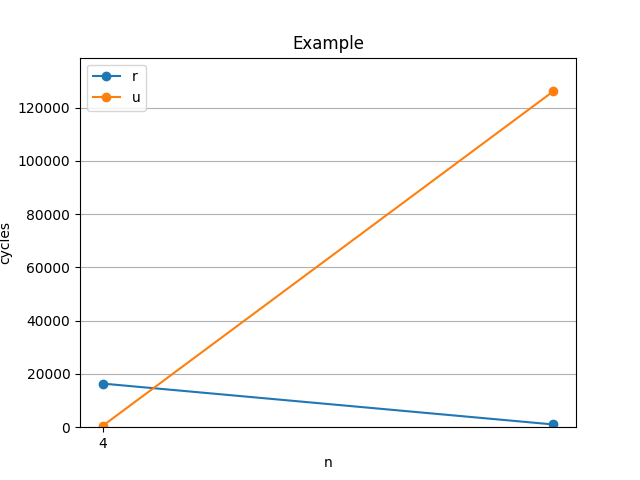
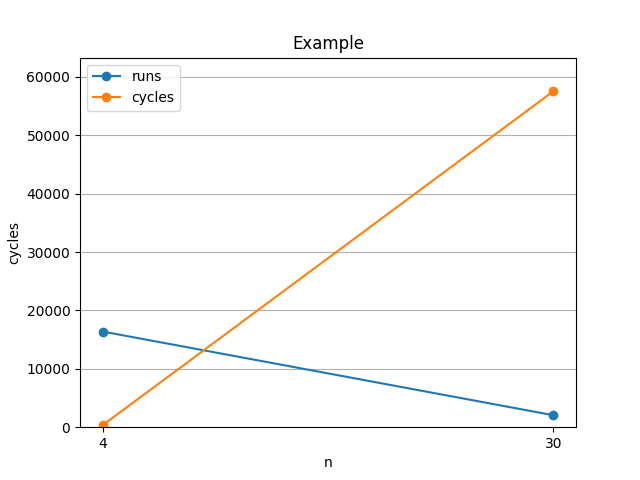
improve plot legend

diff --git a/measurements/plot.py b/measurements/plot.py
@@ -1,4 +1,5 @@
 import argparse
+from cProfile import label
 import csv
 import os
 
@@ -21,22 +22,22 @@ performance_data = list()
 with open(data_file) as f:
     reader = csv.reader(f, delimiter=",", quoting=csv.QUOTE_NONNUMERIC)
     n_list = reader.__next__()
-    for row in reader:
-        performance_data.append(row)
+    runs_list = reader.__next__()
+    cycles_list = reader.__next__()
 
-plot_args = list()
-for pd in performance_data:
-    plot_args += [n_list, pd, "o-"]
-plt.plot(*plot_args)
+plt.plot(n_list, runs_list, "-o", label="runs")
+plt.plot(n_list, cycles_list, "-o", label="cycles")
 
-plt.xticks(n_list[0::2])
+plt.xticks(n_list)
 
-ymax = max([max(l) for l in performance_data])
+runs_max = max(runs_list)
+cycles_max = max(cycles_list)
+ymax = max(runs_max, cycles_max)
 plt.ylim([0, max(2, ymax + 0.1 * ymax)])
 
 plt.grid(True, which="major", axis="y")
 
-plt.legend("runs,cycles")
+plt.legend()
 
 plt.title(title)
 plt.xlabel("n")
